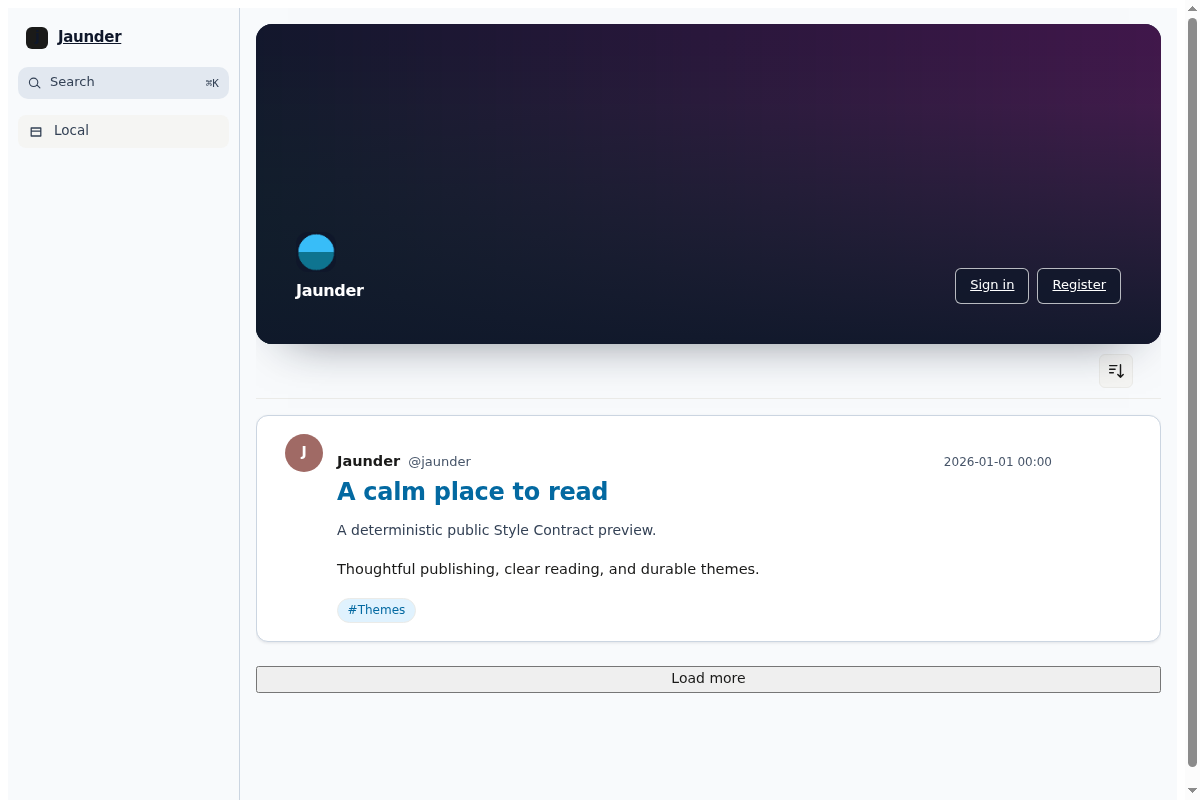
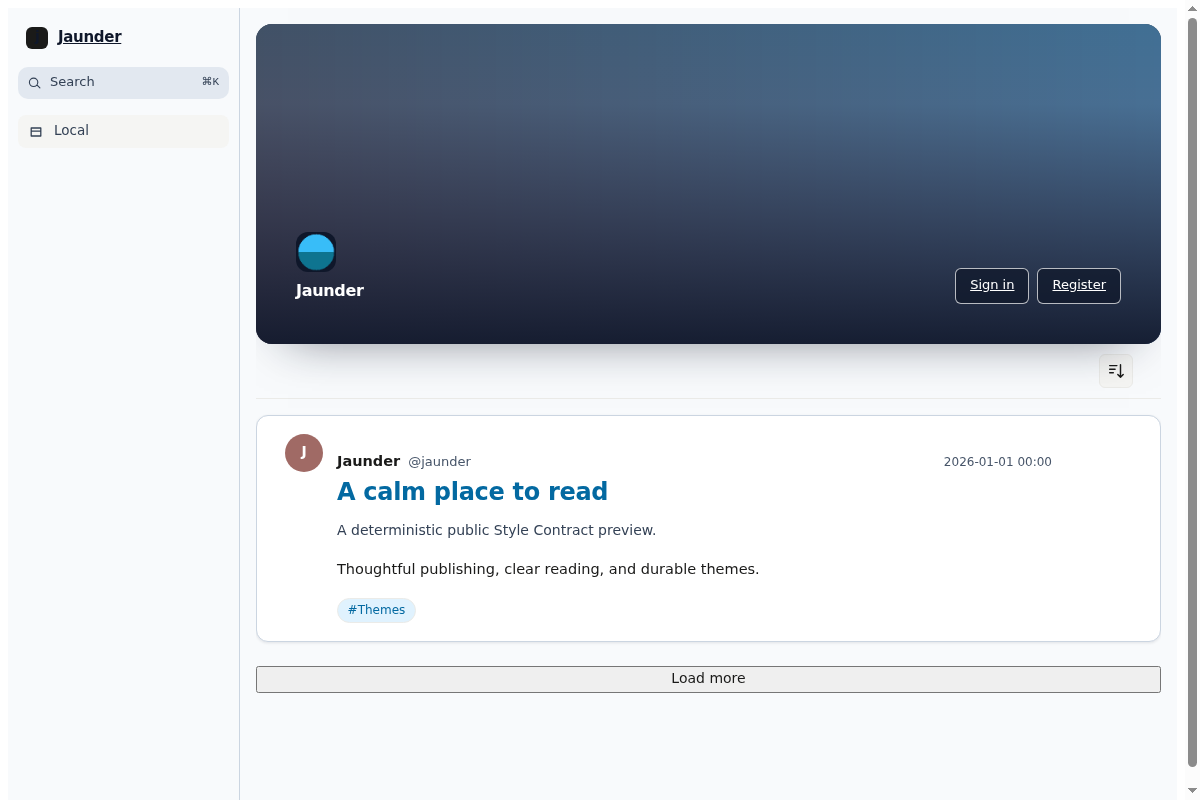
fix: exercise packaged Inter font

Changed region(s): [[0.2158, 0.0312, 0.9867, 0.375], [0.1542, 0.0938, 0.185, 0.125]]

diff --git a/style.css b/style.css
@@ -1,1 +1,1 @@
-:root{color:#1e293b;background:#f8fafc;min-height:100%;font-family:ui-sans-serif,system-ui,sans-serif}[data-jaunder-part=author-handle]{color:#475569}[data-jaunder-part=author-name]{font-weight:600}[data-jaunder-part=avatar]{border-radius:9999px}[data-jaunder-part=header-image]{z-index:0;object-fit:cover;width:100%;height:100%;margin:0;position:absolute;inset:0}[data-jaunder-part=hero]{isolation:isolate;background:#334155;border-radius:1rem;min-height:clamp(14rem,30vw,20rem);display:flex;position:relative;overflow:hidden;box-shadow:0 1.5rem 3rem -2rem #0f172a99}[data-jaunder-part=logo]{border-radius:.75rem;width:2.5rem;height:2.5rem}[data-jaunder-part=main]{width:min(64rem,100% - 2rem);margin-inline:auto;padding-block:1rem 3rem}[data-jaunder-part=masthead]{z-index:1;width:100%;min-height:inherit;color:#fff;box-shadow:none;background:linear-gradient(#0f172a1a 25%,#0f172aeb);border:0;border-radius:0;align-items:flex-end;margin:0;padding:clamp(1rem,4vw,2.5rem);position:relative}[data-jaunder-part=masthead] *{color:inherit}[data-jaunder-part=masthead] a{background:#0f172ab8;border-color:#ffffffb3}[data-jaunder-part=masthead] :focus-visible{outline-offset:3px;outline:3px solid #0284c7}[data-jaunder-part=navigation-rail]{color:#334155;background:#f8fafc;border-color:#cbd5e1}[data-jaunder-part=navigation-rail] *{color:inherit}[data-jaunder-part=navigation-search]{background:#e2e8f0;border-color:#cbd5e1}[data-jaunder-part=post]{overflow-wrap:anywhere;background:#fff;border:1px solid #cbd5e1;border-radius:.75rem;min-width:0;box-shadow:0 1px 3px #0f172a1a}[data-jaunder-part=post] a{color:#0369a1;text-decoration:none}[data-jaunder-part=post] a:hover{color:#075985}[data-jaunder-part=post] :focus-visible{outline-offset:3px;outline:3px solid #0284c7}[data-jaunder-part=post-body]{line-height:1.75}[data-jaunder-part=post-body] a{text-underline-offset:.15em;text-decoration-line:underline;text-decoration-thickness:.125em}[data-jaunder-part=post-list]{gap:1.5rem;padding-block:1rem;display:grid}[data-jaunder-part=post-summary]{color:#334155}[data-jaunder-part=post-title]{overflow-wrap:anywhere;font-size:1.5rem;font-weight:700;line-height:1.25}[data-jaunder-part=primary-navigation]{width:auto;margin:0;padding:0}[data-jaunder-part=primary-navigation] a{color:#334155;border-radius:.5rem;text-decoration:none}[data-jaunder-part=primary-navigation] a:hover{color:#0f172a;background:#e2e8f0}[data-jaunder-part=primary-navigation] :focus-visible{outline-offset:3px;outline:3px solid #0284c7}[data-jaunder-part=published-time]{color:#475569}[data-jaunder-part=site-brand]{color:#0f172a}[data-jaunder-part=site-title]{letter-spacing:-.025em;font-weight:700}[data-jaunder-part=source-attribution]{color:#475569}[data-jaunder-part=tag]{background:#e0f2fe;border-radius:9999px;padding:.2rem .6rem}[data-jaunder-part=tag-list]{flex-wrap:wrap;gap:.5rem;display:flex}[data-jaunder-part=tag-list] a{color:#0369a1;text-decoration:none}[data-jaunder-part=tag-list] a:hover{color:#075985}[data-jaunder-part=tag-list] :focus-visible{outline-offset:3px;outline:3px solid #0284c7}@media (max-width:44rem){[data-jaunder-part=hero]{border-radius:.75rem;min-height:13rem}[data-jaunder-part=main]{width:min(100% - 1rem,64rem);padding-block:.5rem 2rem}[data-jaunder-part=masthead]{align-items:flex-end;gap:.75rem}}@media (prefers-reduced-motion:reduce){:root{scroll-behavior:auto}[data-jaunder-part=masthead] *,[data-jaunder-part=post] *{transition-duration:.01ms;animation-duration:.01ms;animation-iteration-count:1}}@media (prefers-color-scheme:dark){:root{--ink:#e2e8f0;--surface-alt:#1e293b;color:#e2e8f0;background:#0f172a}[data-jaunder-part=author-handle]{color:#cbd5e1}[data-jaunder-part=masthead] :focus-visible{outline-color:#fbbf24}[data-jaunder-part=navigation-rail]{color:#cbd5e1;background:#0f172a;border-color:#334155}[data-jaunder-part=navigation-search]{background:#1e293b;border-color:#475569}[data-jaunder-part=post]{box-shadow:none;background:#1e293b;border-color:#475569}[data-jaunder-part=post] a{color:#7dd3fc}[data-jaunder-part=post] a:hover{color:#bae6fd}[data-jaunder-part=post] :focus-visible{outline-color:#fbbf24}[data-jaunder-part=post-summary],[data-jaunder-part=primary-navigation] a{color:#cbd5e1}[data-jaunder-part=primary-navigation] a:hover{color:#fff;background:#1e293b}[data-jaunder-part=primary-navigation] :focus-visible{outline-color:#fbbf24}[data-jaunder-part=published-time]{color:#cbd5e1}[data-jaunder-part=site-brand]{color:#f8fafc}[data-jaunder-part=source-attribution]{color:#cbd5e1}[data-jaunder-part=tag]{background:#334155}[data-jaunder-part=tag-list] a{color:#7dd3fc}[data-jaunder-part=tag-list] a:hover{color:#bae6fd}[data-jaunder-part=tag-list] :focus-visible{outline-color:#fbbf24}}
+@font-face{font-family:Tailwind Theme Inter;src:url(assets/inter-latin-regular.woff2)format("woff2");font-weight:400;font-style:normal;font-display:swap}:root{color:#1e293b;background:#f8fafc;min-height:100%;font-family:Tailwind Theme Inter,ui-sans-serif,system-ui,sans-serif}[data-jaunder-part=author-handle]{color:#475569}[data-jaunder-part=author-name]{font-weight:600}[data-jaunder-part=avatar]{border-radius:9999px}[data-jaunder-part=header-image]{z-index:0;object-fit:cover;width:100%;height:100%;margin:0;position:absolute;inset:0}[data-jaunder-part=hero]{isolation:isolate;background:#334155;border-radius:1rem;min-height:clamp(14rem,30vw,20rem);display:flex;position:relative;overflow:hidden;box-shadow:0 1.5rem 3rem -2rem #0f172a99}[data-jaunder-part=logo]{border-radius:.75rem;width:2.5rem;height:2.5rem}[data-jaunder-part=main]{width:min(64rem,100% - 2rem);margin-inline:auto;padding-block:1rem 3rem}[data-jaunder-part=masthead]{z-index:1;width:100%;min-height:inherit;color:#fff;box-shadow:none;background:linear-gradient(#0f172a1a 25%,#0f172aeb);border:0;border-radius:0;align-items:flex-end;margin:0;padding:clamp(1rem,4vw,2.5rem);position:relative}[data-jaunder-part=masthead] *{color:inherit}[data-jaunder-part=masthead] a{background:#0f172ab8;border-color:#ffffffb3}[data-jaunder-part=masthead] :focus-visible{outline-offset:3px;outline:3px solid #0284c7}[data-jaunder-part=navigation-rail]{color:#334155;background:#f8fafc;border-color:#cbd5e1}[data-jaunder-part=navigation-rail] *{color:inherit}[data-jaunder-part=navigation-search]{background:#e2e8f0;border-color:#cbd5e1}[data-jaunder-part=post]{overflow-wrap:anywhere;background:#fff;border:1px solid #cbd5e1;border-radius:.75rem;min-width:0;box-shadow:0 1px 3px #0f172a1a}[data-jaunder-part=post] a{color:#0369a1;text-decoration:none}[data-jaunder-part=post] a:hover{color:#075985}[data-jaunder-part=post] :focus-visible{outline-offset:3px;outline:3px solid #0284c7}[data-jaunder-part=post-body]{line-height:1.75}[data-jaunder-part=post-body] a{text-underline-offset:.15em;text-decoration-line:underline;text-decoration-thickness:.125em}[data-jaunder-part=post-list]{gap:1.5rem;padding-block:1rem;display:grid}[data-jaunder-part=post-summary]{color:#334155}[data-jaunder-part=post-title]{overflow-wrap:anywhere;font-size:1.5rem;font-weight:700;line-height:1.25}[data-jaunder-part=primary-navigation]{width:auto;margin:0;padding:0}[data-jaunder-part=primary-navigation] a{color:#334155;border-radius:.5rem;text-decoration:none}[data-jaunder-part=primary-navigation] a:hover{color:#0f172a;background:#e2e8f0}[data-jaunder-part=primary-navigation] :focus-visible{outline-offset:3px;outline:3px solid #0284c7}[data-jaunder-part=published-time]{color:#475569}[data-jaunder-part=site-brand]{color:#0f172a}[data-jaunder-part=site-title]{letter-spacing:-.025em;font-weight:700}[data-jaunder-part=source-attribution]{color:#475569}[data-jaunder-part=tag]{background:#e0f2fe;border-radius:9999px;padding:.2rem .6rem}[data-jaunder-part=tag-list]{flex-wrap:wrap;gap:.5rem;display:flex}[data-jaunder-part=tag-list] a{color:#0369a1;text-decoration:none}[data-jaunder-part=tag-list] a:hover{color:#075985}[data-jaunder-part=tag-list] :focus-visible{outline-offset:3px;outline:3px solid #0284c7}@media (max-width:44rem){[data-jaunder-part=hero]{border-radius:.75rem;min-height:13rem}[data-jaunder-part=main]{width:min(100% - 1rem,64rem);padding-block:.5rem 2rem}[data-jaunder-part=masthead]{align-items:flex-end;gap:.75rem}}@media (prefers-reduced-motion:reduce){:root{scroll-behavior:auto}[data-jaunder-part=masthead] *,[data-jaunder-part=post] *{transition-duration:.01ms;animation-duration:.01ms;animation-iteration-count:1}}@media (prefers-color-scheme:dark){:root{--ink:#e2e8f0;--surface-alt:#1e293b;color:#e2e8f0;background:#0f172a}[data-jaunder-part=author-handle]{color:#cbd5e1}[data-jaunder-part=masthead] :focus-visible{outline-color:#fbbf24}[data-jaunder-part=navigation-rail]{color:#cbd5e1;background:#0f172a;border-color:#334155}[data-jaunder-part=navigation-search]{background:#1e293b;border-color:#475569}[data-jaunder-part=post]{box-shadow:none;background:#1e293b;border-color:#475569}[data-jaunder-part=post] a{color:#7dd3fc}[data-jaunder-part=post] a:hover{color:#bae6fd}[data-jaunder-part=post] :focus-visible{outline-color:#fbbf24}[data-jaunder-part=post-summary],[data-jaunder-part=primary-navigation] a{color:#cbd5e1}[data-jaunder-part=primary-navigation] a:hover{color:#fff;background:#1e293b}[data-jaunder-part=primary-navigation] :focus-visible{outline-color:#fbbf24}[data-jaunder-part=published-time]{color:#cbd5e1}[data-jaunder-part=site-brand]{color:#f8fafc}[data-jaunder-part=source-attribution]{color:#cbd5e1}[data-jaunder-part=tag]{background:#334155}[data-jaunder-part=tag-list] a{color:#7dd3fc}[data-jaunder-part=tag-list] a:hover{color:#bae6fd}[data-jaunder-part=tag-list] :focus-visible{outline-color:#fbbf24}}

diff --git a/evidence/issue-1549/harness/font-lifecycle-evidence.spec.ts b/evidence/issue-1549/harness/font-lifecycle-evidence.spec.ts
@@ -1,0 +1,113 @@
+/* Durable focused proof that a canonical package's CSS loads its declared font. */
+import { createHash } from "node:crypto";
+import { mkdir, readFile, writeFile } from "node:fs/promises";
+import { join } from "node:path";
+import { test, expect, setTestBudget } from "./fixtures";
+import { BASE_URL, goto, signInAs } from "./helpers";
+
+const zipPath = process.env.THEME_TAILWIND_ZIP;
+const evidenceDirectory = process.env.THEME_TAILWIND_EVIDENCE_DIR;
+const expectedZipSha256 = process.env.THEME_TAILWIND_ZIP_SHA256;
+if (!zipPath || !evidenceDirectory || !expectedZipSha256)
+  throw new Error("THEME_TAILWIND_ZIP, THEME_TAILWIND_EVIDENCE_DIR, and THEME_TAILWIND_ZIP_SHA256 are required");
+
+const sha256 = (bytes: Buffer) => createHash("sha256").update(bytes).digest("hex");
+const fontMember = "assets/inter-latin-regular.woff2";
+
+async function zipMember(path: string): Promise<Buffer> {
+  const { execFile } = await import("node:child_process");
+  return new Promise((resolve, reject) =>
+    execFile("unzip", ["-p", zipPath!, path], { encoding: "buffer" }, (error, stdout) =>
+      error ? reject(error) : resolve(Buffer.from(stdout)),
+    ),
+  );
+}
+
+test("canonical Tailwind package CSS rewrites and loads its declared Inter font", async ({
+  page,
+  tracedContext,
+  firstNav,
+}) => {
+  setTestBudget(120_000);
+  const logs = join(evidenceDirectory!, "logs");
+  await mkdir(logs, { recursive: true });
+  const zip = await readFile(zipPath!);
+  expect(sha256(zip)).toBe(expectedZipSha256);
+  const fontDigest = sha256(await zipMember(fontMember));
+  const result: Record<string, unknown> = {
+    zipSha256: sha256(zip),
+    fontMember,
+    fontDigest,
+  };
+
+  await signInAs(page, "testoperator");
+  await goto(page, "/themes", { timeout: firstNav });
+  await page.getByRole("button", { name: "Site catalog" }).click();
+  const importer = page.locator("section").filter({ hasText: "Import Theme Package" });
+  await importer.getByLabel("Theme name").fill("Tailwind canonical font lifecycle");
+  await importer.getByLabel("Theme Package ZIP").setInputFiles(zipPath!);
+  const mutation = (path: string) => page.waitForResponse((response) =>
+    new URL(response.url()).pathname === path && response.request().method() === "POST",
+  );
+  await Promise.all([
+    mutation("/api/themes/import_zip"),
+    importer.getByRole("button", { name: "Import ZIP draft" }).click(),
+  ]);
+  await page.getByRole("button", { name: "Tailwind canonical font lifecycle" }).click();
+  await Promise.all([
+    mutation("/api/themes/preview"),
+    page.getByRole("button", { name: "Preview draft" }).click(),
+  ]);
+  await Promise.all([
+    mutation("/api/themes/publish"),
+    page.getByRole("button", { name: "Publish", exact: true }).click(),
+  ]);
+  const selection = page.getByLabel("Public selection");
+  const themeId = await selection
+    .getByRole("option", { name: "Tailwind canonical font lifecycle" })
+    .getAttribute("value");
+  expect(themeId).not.toBeNull();
+  await Promise.all([mutation("/api/themes/select"), selection.selectOption(themeId!)]);
+
+  const publicContext = await tracedContext();
+  try {
+    const publicPage = await publicContext.newPage();
+    await goto(publicPage, "/", { timeout: firstNav });
+    await expect(publicPage.locator(".j-root")).toHaveAttribute("data-theme", "custom");
+    const stylesheet = await publicPage.locator("link[data-jaunder-theme-stylesheet]").getAttribute("href");
+    expect(stylesheet).not.toBeNull();
+    const stylesheetResponse = await publicPage.request.get(new URL(stylesheet!, BASE_URL).href);
+    expect(stylesheetResponse.ok()).toBeTruthy();
+    const css = await stylesheetResponse.text();
+    const route = css.match(new RegExp(`/theme/${fontDigest}(?=[)\\"'])`))?.[0];
+    expect(route).toBe(`/theme/${fontDigest}`);
+    const fontResponse = await publicPage.request.get(new URL(route!, BASE_URL).href);
+    expect(fontResponse.ok()).toBeTruthy();
+    expect(sha256(await fontResponse.body())).toBe(fontDigest);
+    const typography = await publicPage.evaluate(async () => {
+      await document.fonts.ready;
+      const root = document.documentElement;
+      const post = document.querySelector('[data-jaunder-part="post"]');
+      const rootFamily = getComputedStyle(root).fontFamily;
+      const postFamily = post ? getComputedStyle(post).fontFamily : "";
+      const loadedFamily = [...document.fonts]
+        .filter((face) => face.status === "loaded")
+        .map((face) => face.family)
+        .find((family) => rootFamily.includes(family.replaceAll('"', "")));
+      return {
+        rootFamily,
+        postFamily,
+        loadedFamily: loadedFamily ?? null,
+        fontCheck: loadedFamily ? document.fonts.check(`16px ${loadedFamily}`) : false,
+      };
+    });
+    expect(typography.loadedFamily).not.toBeNull();
+    expect(typography.fontCheck).toBeTruthy();
+    expect(typography.rootFamily).toContain(typography.loadedFamily!.replaceAll('"', ""));
+    expect(typography.postFamily).toBe(typography.rootFamily);
+    Object.assign(result, { stylesheet, rewrittenFontRoute: route, typography });
+  } finally {
+    await publicContext.close();
+  }
+  await writeFile(join(logs, "canonical-font-lifecycle.json"), `${JSON.stringify(result, null, 2)}\n`);
+});

diff --git a/src/theme.css b/src/theme.css
@@ -4,12 +4,20 @@
  * limited to :root and Style Contract semantic hooks.
  */
 
+@font-face {
+  font-family: "Tailwind Theme Inter";
+  src: url("assets/inter-latin-regular.woff2") format("woff2");
+  font-weight: 400;
+  font-style: normal;
+  font-display: swap;
+}
+
 /* Theme surface */
 :root {
   min-height: 100%;
   color: #1e293b;
   background: #f8fafc;
-  font-family: ui-sans-serif, system-ui, sans-serif;
+  font-family: "Tailwind Theme Inter", ui-sans-serif, system-ui, sans-serif;
 }
 
 /* author-handle */

diff --git a/evidence/issue-1549/README.md b/evidence/issue-1549/README.md
@@ -1,5 +1,15 @@
 # Issue #1549 evidence status
 
+## Pass 1 supersession notice
+
+The font-face change after final-review pass 1 changes the canonical package
+bytes. **Every retained presentation screenshot and every visual verdict below
+is superseded historical evidence, not final approval.** They remain only as
+machine and review history pending the deliberately deferred pass-2 visual,
+optional-state, and trusted-controls reruns. The focused font lifecycle record
+added for this pass is package/lifecycle evidence only and makes no visual
+verdict.
+
 This directory is reserved for evidence from the current semantic-hook redesign
 candidate. The prior images were deliberately removed because they prove an
 older presentation and artifact; they are not evidence for the current
@@ -165,11 +175,12 @@ The evidence proves exact package logo, content-addressed font, and header
 bytes; each one-entry package pool and a deterministic complete package pool;
 owned logo and header bindings through the supported Media UI; and a mixed
 package/owned pool that resolves both entry types after supported shuffle and
-stays stable without mutation. The retained export at
-[`media-bindings/exported-portable-package.zip`](media-bindings/exported-portable-package.zip)
-is the original package bytes and contains only its six portable package
-members—no instance-local owned Media. Explicit Studio recovery and restoration
-of the custom selection passed.
+stays stable without mutation. The generated export ZIP is intentionally **not retained in source control**.
+Its exact SHA-256, six-member list, manifest/style equality, and portability
+facts are retained in
+[`logs/chromium-media-bindings-evidence.json`](logs/chromium-media-bindings-evidence.json);
+it contained no instance-local owned Media. Explicit Studio recovery and
+restoration of the custom selection passed.
 
 The four retained screenshots in `media-bindings/screenshots/` were inspected:
 **pass** — package default slate/purple header and logo; owned red logo; owned

diff --git a/PROVING-GROUND.md b/PROVING-GROUND.md
@@ -1,5 +1,10 @@
 # Proving ground — jaunder-org/jaunder#1549
 
+> **Superseded pending pass 2:** the package-local font-face change changes
+> package bytes. Every retained presentation screenshot and visual verdict in
+> this historical log is superseded, not final approval. Pass 2/3 visual,
+> optional-state, and trusted-controls reruns are deliberately deferred.
+
 This log records only evidence for the current redesigned presentation candidate.
 The historical proof and captures at commit `295c9a8d2d90318f52f94e1427fc86a9dfb0be1c`
 were intentionally removed: they describe an earlier presentation and artifact,
@@ -178,8 +183,10 @@ It passed. The machine result is
 [`chromium-media-bindings-evidence.json`](evidence/issue-1549/logs/chromium-media-bindings-evidence.json),
 the parked command record is
 [`chromium-media-bindings-evidence-e2e-local.log`](evidence/issue-1549/logs/chromium-media-bindings-evidence-e2e-local.log),
-and the retained successful screenshots and exported package are in
-[`media-bindings/`](evidence/issue-1549/media-bindings/).
+and the retained successful screenshots are in
+[`media-bindings/`](evidence/issue-1549/media-bindings/). The exported ZIP is
+generated evidence and is not committed; its SHA-256, exact members, and
+equality/portability facts are retained in the machine JSON.
 
 The result verifies exact served bytes for the package logo, content-addressed
 font, and package default header; each one-entry package header pool; and a
